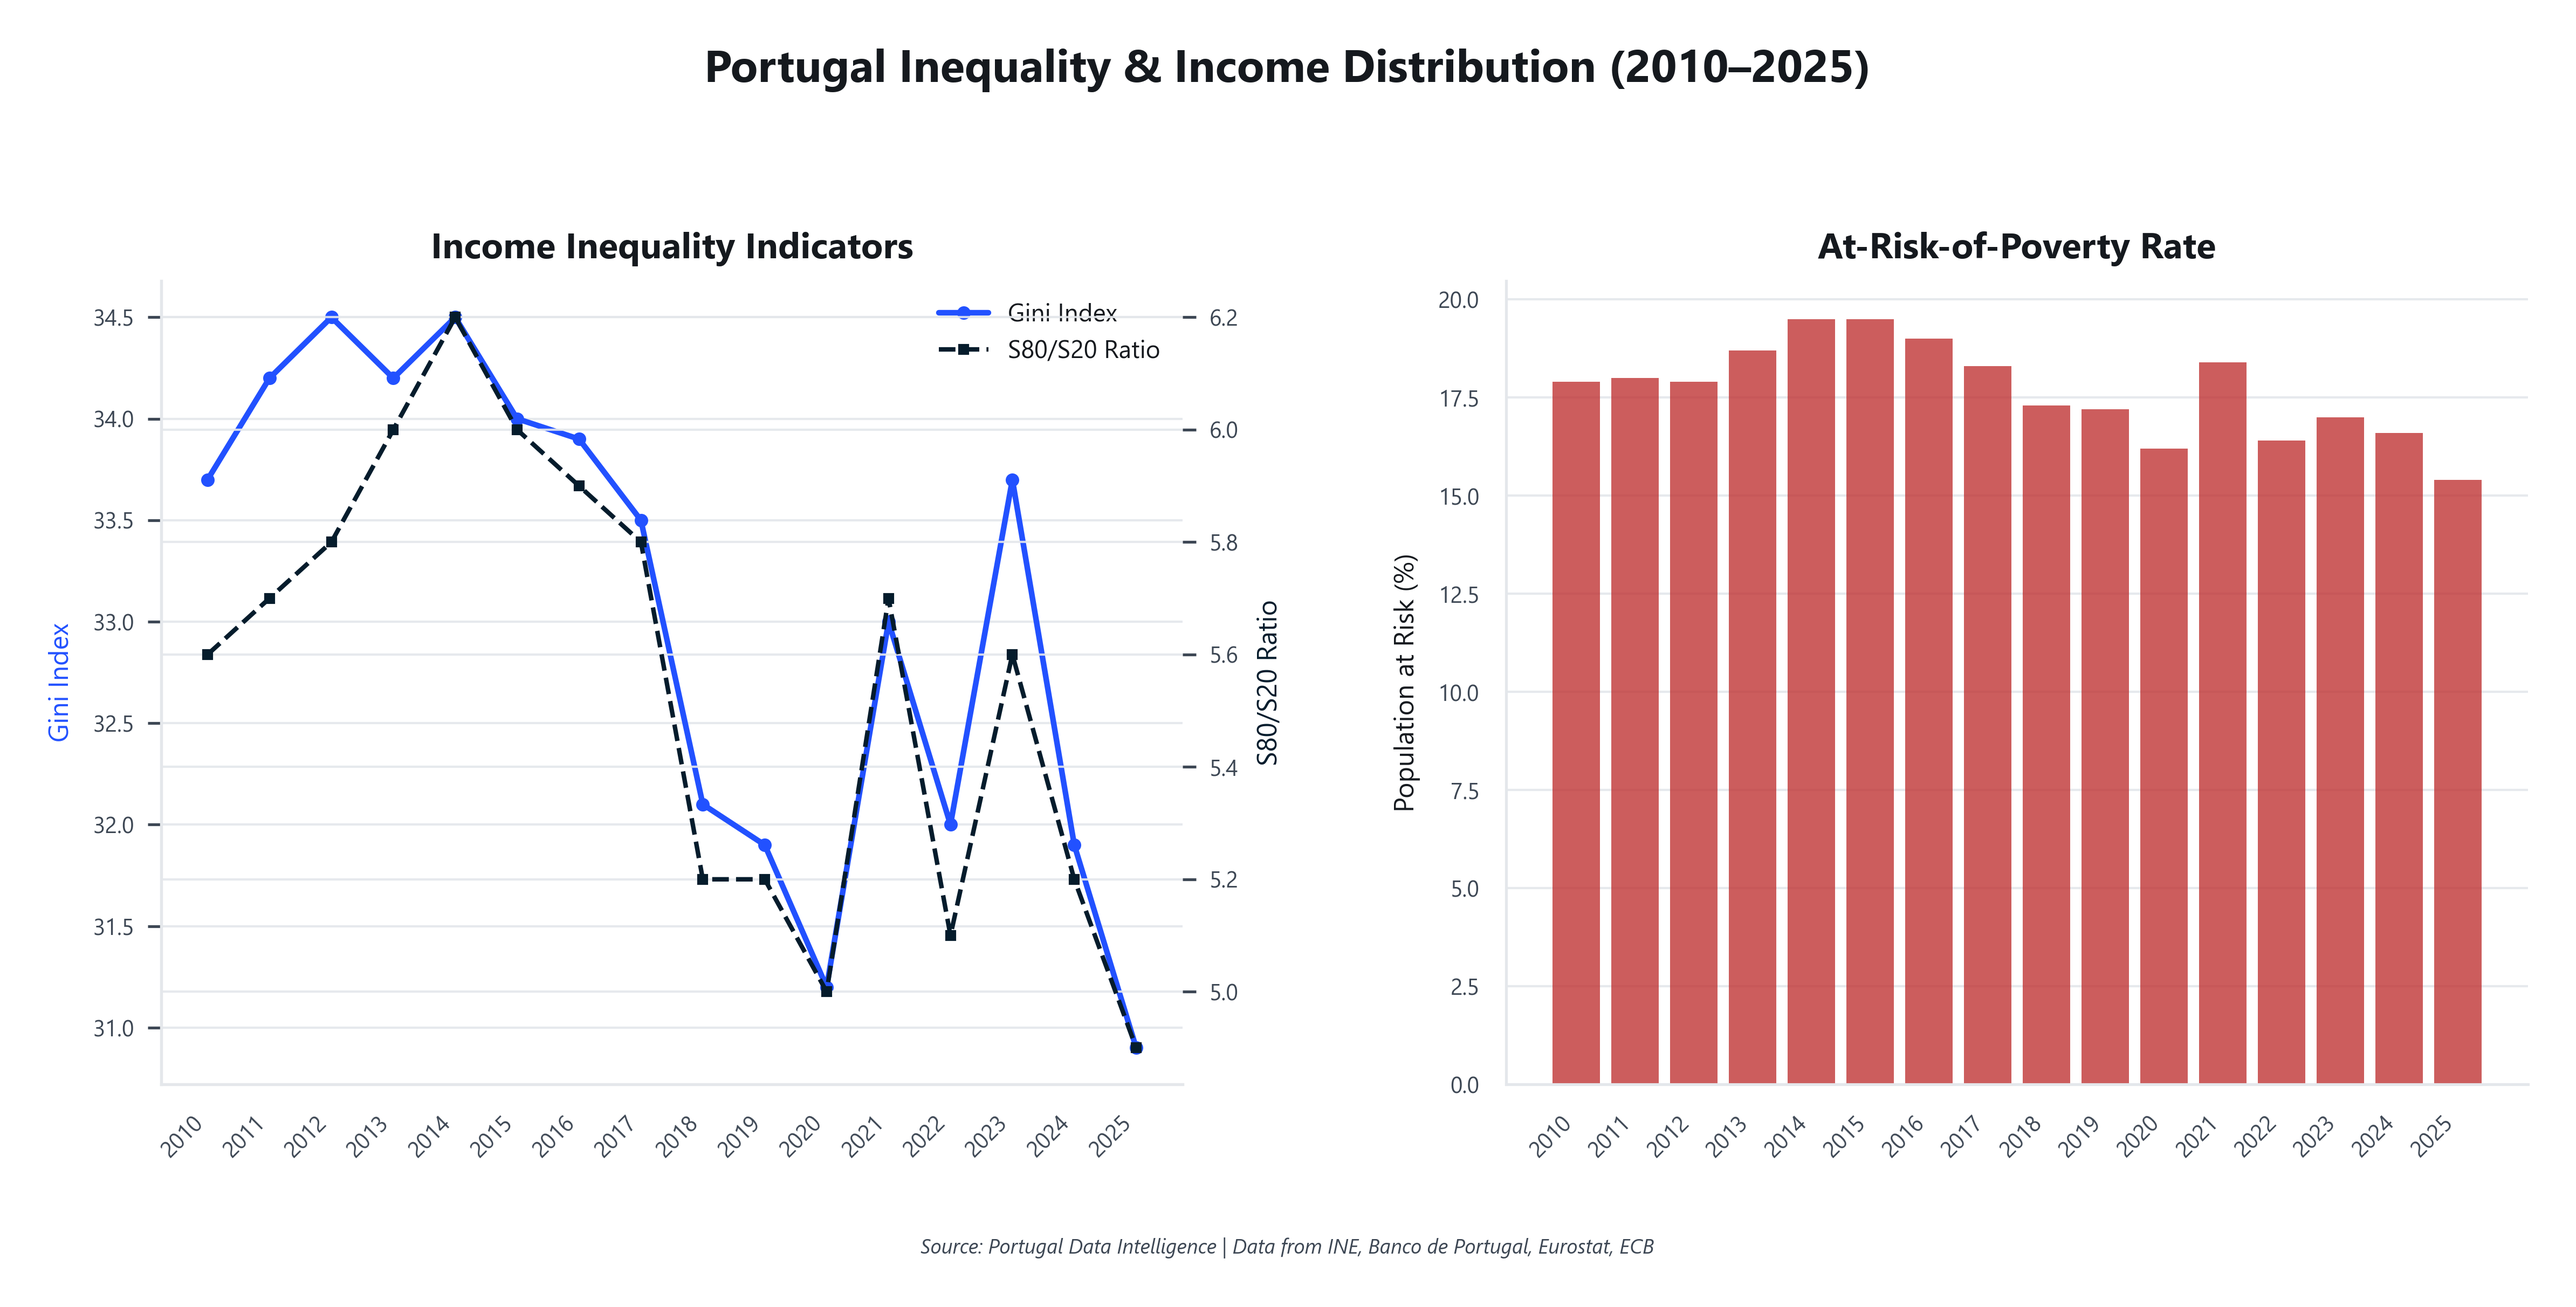
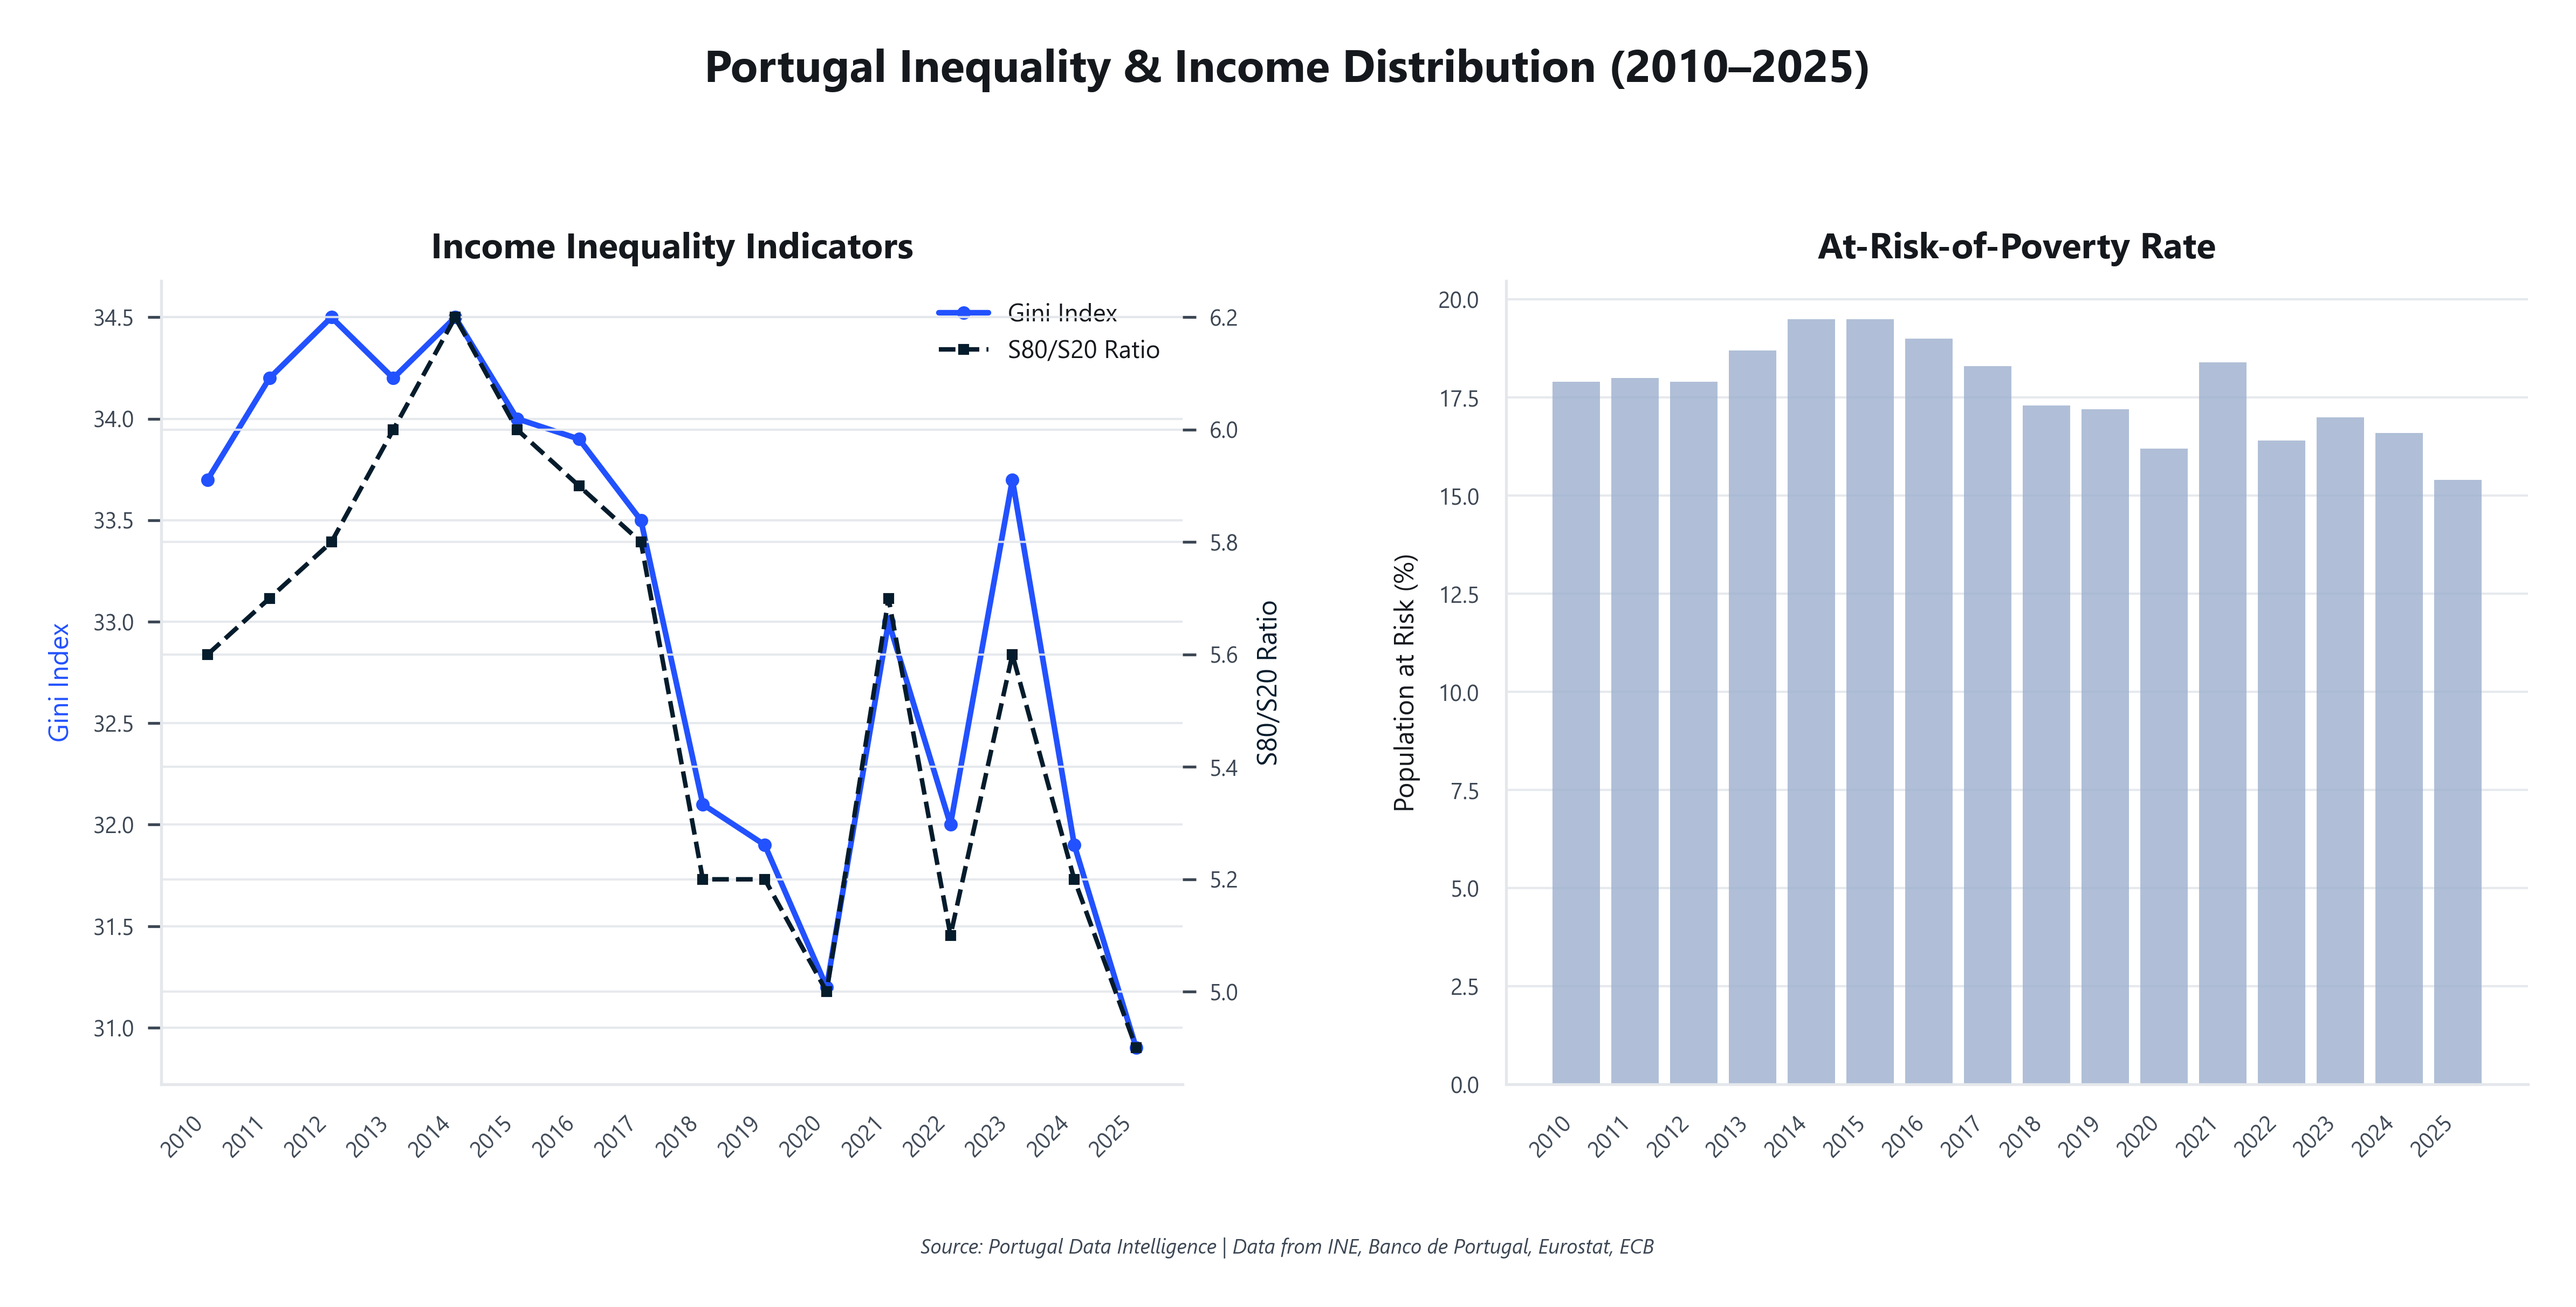
style: recolour semantic chart palette to the blue consulting duotone
The matplotlib charts still used green (#0E7C3F) / red (#C03434) for the
positive/negative semantics (inflation bars, budget-balance bars, debt risk
zones, NPL, KPI delta arrows), which clashed with the editorial blue
template. Replaced the two shared_styles constants with a mono-brand blue
duotone — electric blue (#2251FF) for gains, muted steel blue (#9DB0CE) for
declines — both kept distinct from the navy second series and grey baseline.
Regenerated the 7 affected charts; the other 8 are byte-identical.

Plotly charts in the HTML report were already blue. The report's own KPI
delta text, risk badges, and forecast-table arrows still use green/red
(generate_report.py --pos/--neg) — left as a separate call since those are
semantic badges, not charts.

Changed region(s): [[0.5926, 0.2475, 0.9669, 0.8354]]

diff --git a/src/reporting/shared_styles.py b/src/reporting/shared_styles.py
@@ -37,8 +37,13 @@ _SECONDARY_FAINT = "#DCE3E9"  # Very light navy for backgrounds
 _ACCENT_LIGHT = "#66C9F8"  # Lighter cyan
 _ACCENT_FAINT = "#DFF4FE"  # Very light cyan for backgrounds
 
-_NEGATIVE = "#C03434"  # Declines, losses, risks (muted red)
-_POSITIVE = "#0E7C3F"  # Growth, gains, success (muted green)
+# Mono-brand duotone: the consulting template keeps everything in the blue
+# family, so "good/bad" is carried by an electric-blue vs muted-steel pair
+# (saturation + bar direction convey the sign) instead of green/red. Both
+# stay distinct from the navy second series (_SECONDARY) and the grey
+# baseline (_NEUTRAL) for charts where all of them appear together.
+_POSITIVE = "#2251FF"  # Growth, gains, success (brand electric blue)
+_NEGATIVE = "#9DB0CE"  # Declines, losses, risks (muted steel blue)
 _NEUTRAL = "#6A737F"  # Baseline, unchanged (cool grey)
 
 _PALETTE_FULL = [_PRIMARY, _SECONDARY, _ACCENT, "#6E7B8A"]
